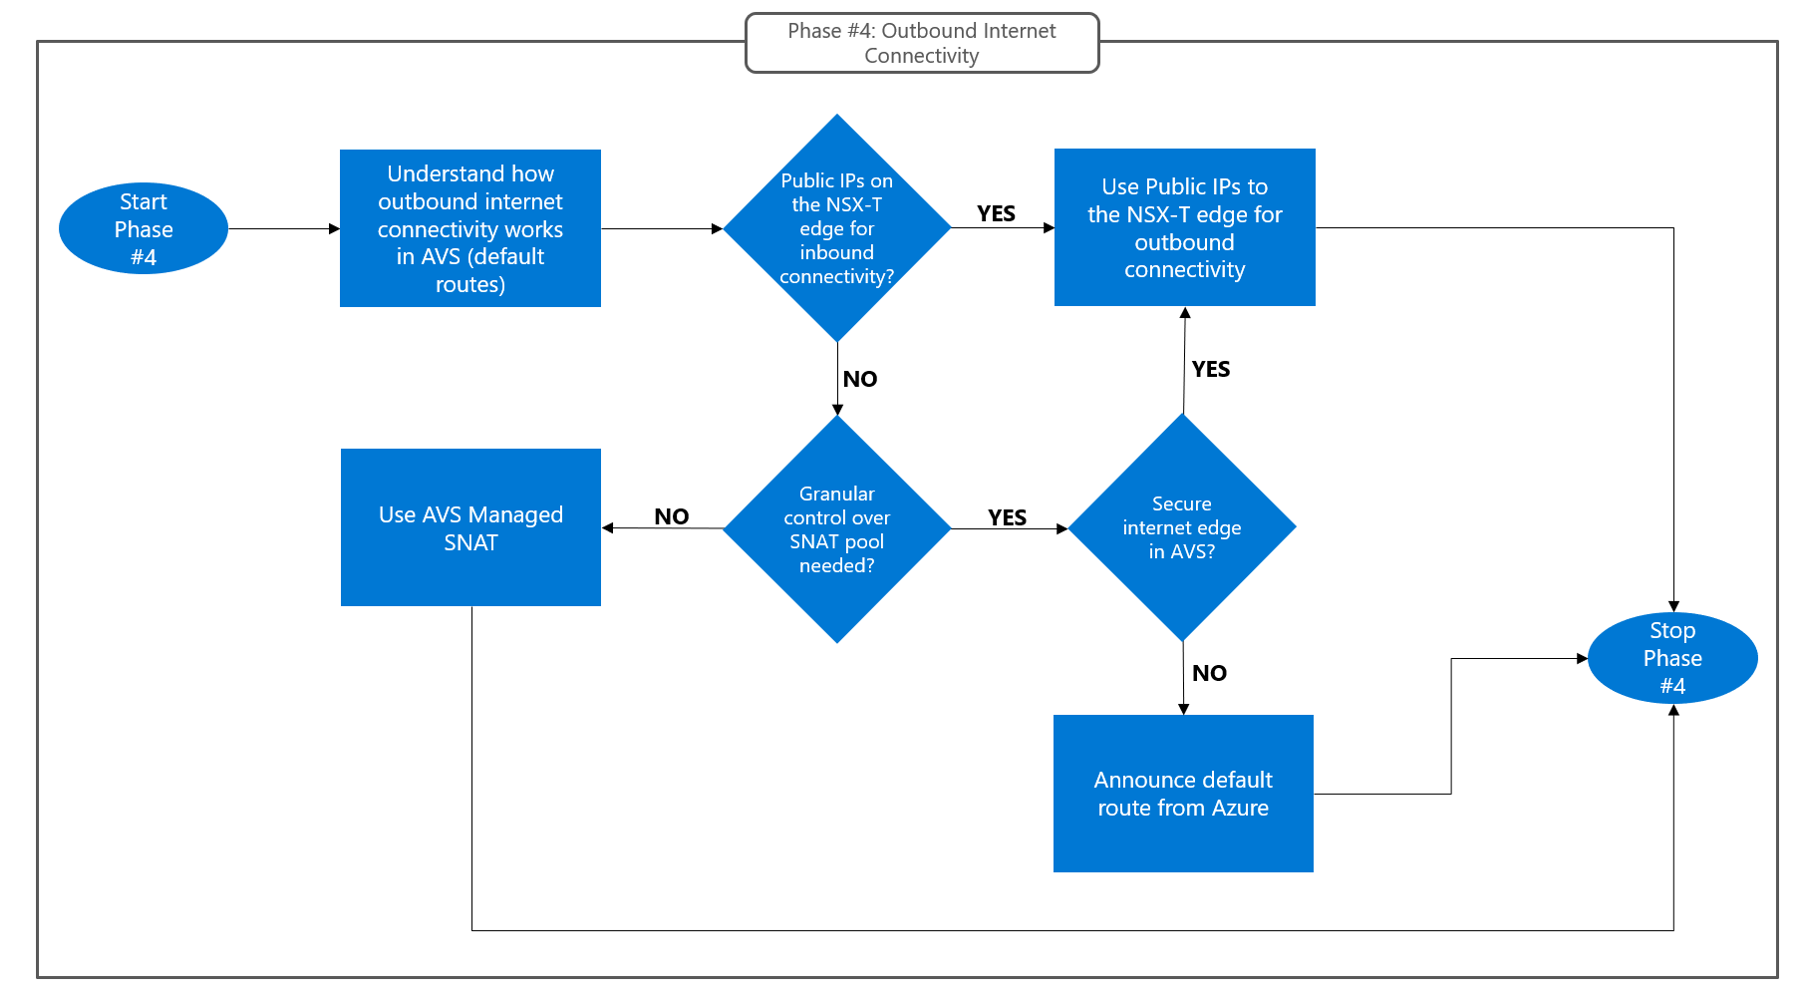
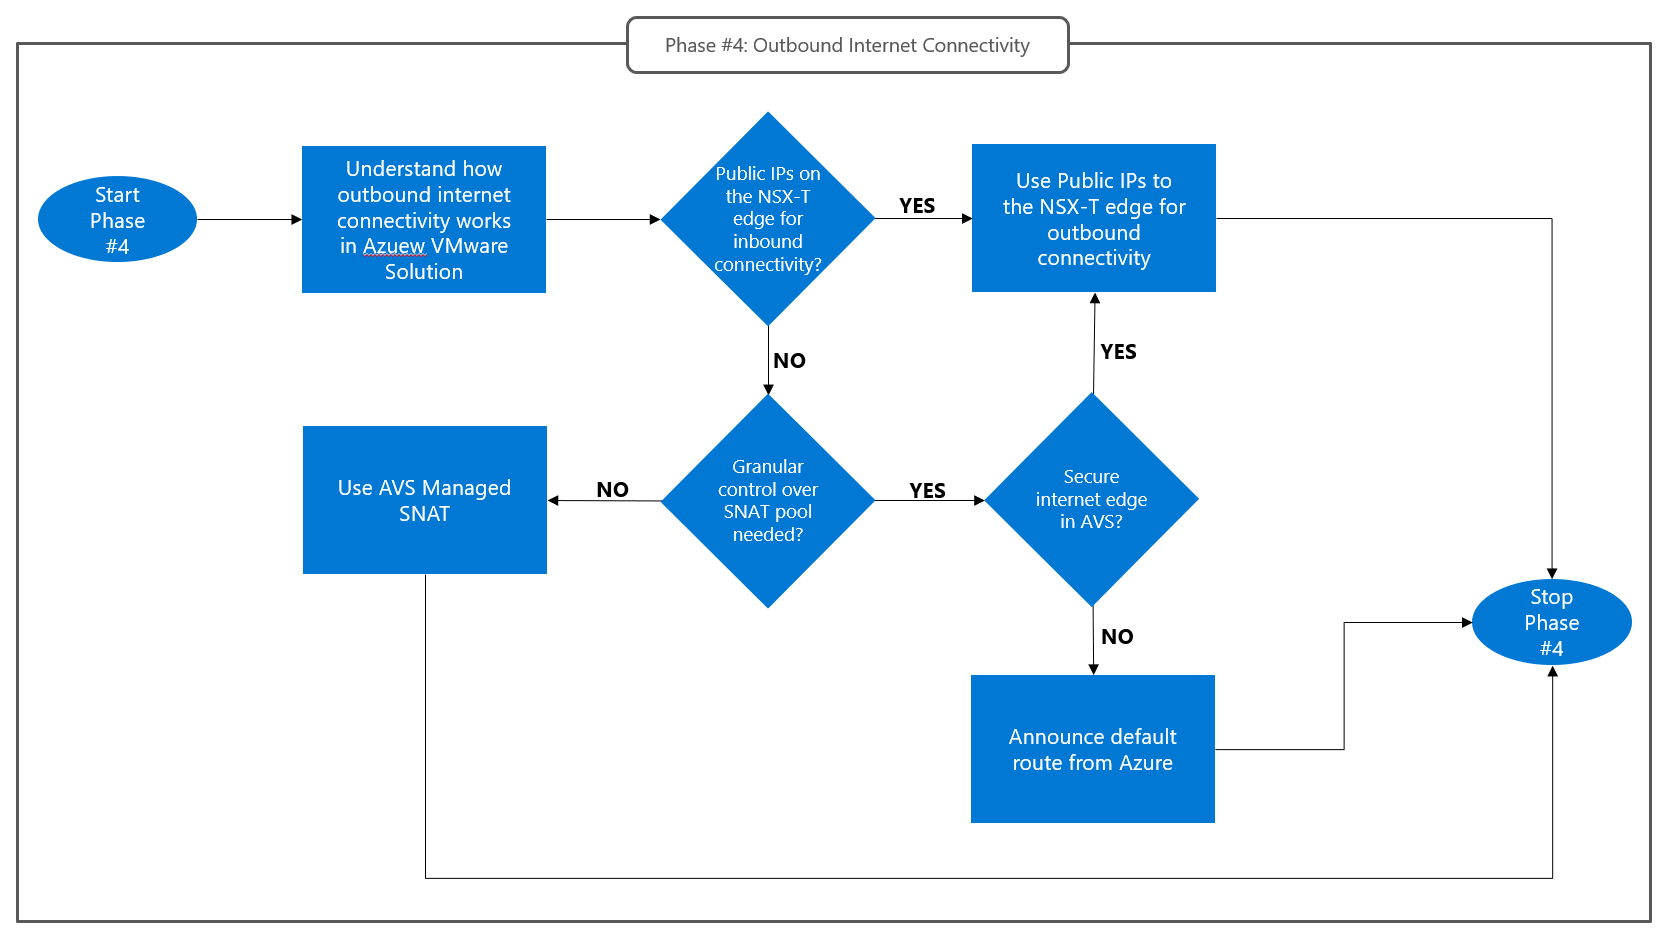
Review Phase #4

diff --git a/Network Design Guide/internet-outbound-connectivity.md b/Network Design Guide/internet-outbound-connectivity.md
@@ -1,39 +1,40 @@
 # Design phase #4: Internet outbound connectivity
-Outbound Internet connectivity must be designed based on requirements set forth by the applications running on Azure VMware Solution. Such requirements may range from very basic Internet access (for example to allow Azure VMware Solution virtual machines to download software updates) to complex outbound scenarios that require granular control on which address pool is used for Source NAT (for example in B2B collaboration scenarios where access to a third party API is allowed only for connections originating from specific, whitelisted IP addresses) or on the number of supported Source-NAT sessions (for example in VDI scenarios). 
-Almost invariably, outbound Internet access must be secured, by routing connections through a firewall or proxy devices. Azure VMware Solution supports deploying such devices on Azure VMware Solution itself, or in an Azure VNet connected to the private cloud. Choosing between these two options is the main goal of phase #4. The following considerations may help drive the decision:
-- Azure VMware Solution customers with a pre-existing Azure footprint may have deployed NVA’s for secure Internet access in Azure, which should be used for Azure VMware Solution applications too (both for cost optimization and for consistency).
+Design Phase #4 is driven by the outbound Internet connectivity requirements of the applications running on Azure VMware Solution. Such requirements may range from very basic Internet access (for example to allow virtual machines running in the private cloud to download software updates) to complex outbound scenarios that require granular control on the source-NAT address pool (for example in B2B collaboration scenarios where access to a third party API is allowed only from whitelisted IP addresses) or the number of supported source-NAT sessions (for example in VDI scenarios). 
+
+Almost invariably, outbound Internet access must be secured, by routing connections through a firewall or proxy device. Azure VMware Solution supports deploying such devices in the private cloud itself, or in an Azure VNet connected to the private cloud. Choosing between these two options is the main goal of Design Phase #4. The following considerations may help drive the decision:
+- Azure VMware Solution customers may want to leverage pre-existing secure internet access NVAs (firewalls, forward proxies) deployed in Azure VNets for cost optimization and consistency.
 - Azure VMware Solution customers may want to leverage PaaS solutions available on Azure, to reduce management overhead. Azure Firewall (especially when the Premium SKU features are enabled) can be used for secure Internet access. 
 - Azure VMware Solution customers that prefer to host the network infrastructure that supports their Azure VMware Solution applications entirely on Azure VMware Solution may want to deploy firewalls and/or proxy devices as Azure VMware Solution virtual machines, if supported by the NVA vendor.
-- Design phase #4 has a dependency on Phase #3. If “Public IPs to the NSX-T edge” have been selected as the inbound Internet connectivity option, then the same approach must be used for outbound connectivity: All outbound connections initiated by Azure VMware Solution virtual machines will be managed on the NSX-T edge and Source-NATted behind addresses in the Azure Public IP Prefix associated with the Azure VMware Solution private cloud’s NSX-T edge.
-The flow chart below describes how to approach design phase #4.
+
+Design phase #4 has a dependency on Phase #3. If [“Public IPs to the NSX-T edge”](internet-inbound-connectivity.md#nvas-for-application-publishing-hosted-in-azure-vmware-solution-public-ips-on-the-nsx-t-edge) has been selected as the inbound Internet connectivity option, then it must be used for outbound connectivity too: All outbound connections initiated by virtual machines running on Azure VMware Solution  will be managed on the NSX-T edge and Source-NATted behind addresses in the Azure Public IP Prefix associated with the private cloud’s NSX-T edge. The flow chart below describes how to approach Design Phase #4.
  
 ![figure17](media/figure17.png) 
 *Design Phase #4: Outbound Internet connectivity.*
 
 ## Default routes and outbound Internet connectivity in Azure VMware Solution
-Default routes configured on a private cloud’s network segments determine how outbound Internet connections initiated within the private cloud are routed. Different default routes are used in different network segments.
-The private cloud management network (which hosts vCenter Server and NSX-T Manager virtual machines) always uses a default route that provides direct Internet access through a platform-managed Internet breakout. This default route cannot be overridden. Source-NAT is managed by the platform. Users have no control over the public IP addresses in the Source-NAT pool. 
-Workload segments can:
-- Use a default route that provides Internet access through a platform-managed breakout. Source-NAT can be managed by the platform or by the user. In the former case, users have no control over the public IP addresses in the Source-NAT pool (see [this article](https://learn.microsoft.com/azure/azure-vmware/concepts-design-public-internet-access#azure-vmware-solution-managed-snat) for more information). In the latter case, users are responsible for provisioning Azure Public IP Prefixes for the Source-NAT pool and for defining NAT rules on the NSX-T edge (see [this article](https://learn.microsoft.com/en-us/azure/azure-vmware/concepts-design-public-internet-access#azure-public-ipv4-address-to-nsx-t-data-center-edge) for more information). 
-- Use a custom default route announced over the private cloud’s Expressroute circuit. The custom default route can be originated in an Azure VNet or in an on-premises site. Source-NAT is the user’s responsibility and must be performed by network devices in Azure VNets or on-premises (see [this article]( https://learn.microsoft.com/en-us/azure/azure-vmware/concepts-design-public-internet-access#internet-service-hosted-in-azure) for more information).
-All workload segments share the same default route configuration (platform-managed breakout with platform- or user-managed SNAT, or custom internet breakout in Azure VNets or on-premises sites). Outbound internet connectivity for workload segments can be configured through the Azure portal, as shown in the figure below.
- 
+Default routes determine how outbound Internet connections initiated by virtual machines running in the private cloud are routed. Different default routes are used in different network segments of an Azure VMware Solution private cloud: 
+- The private cloud's management network (which hosts vCenter Server and NSX-T Manager) always uses a default route that provides direct Internet access through a platform-managed Internet breakout. This default route cannot be overridden and users have no control over the source-NAT pool for connections initiated from the management network.
+- All workload segments share the same default route configuration, which can be one of the following:
+    - Default route that provides Internet access through a platform-managed breakout. Source-NAT can be managed by the platform or by the user. In the former case, users have no control over the public IP addresses in the source-NAT pool (see [this article](https://learn.microsoft.com/azure/azure-vmware/concepts-design-public-internet-access#azure-vmware-solution-managed-snat) for more information). In the latter case, users are responsible for provisioning Azure Public IP Prefixes for the source-NAT pool and for defining NAT rules on the NSX-T edge (see [this article](https://learn.microsoft.com/en-us/azure/azure-vmware/concepts-design-public-internet-access#azure-public-ipv4-address-to-nsx-t-data-center-edge) for more information). 
+    - Default route announced over the private cloud’s ExpressRoute circuit. This default route can be originated by a BGP-capable device in an Azure VNet or in an on-premises site. Source-NAT is the user’s responsibility and must be performed by network devices in Azure VNets or on-premises (see [this article]( https://learn.microsoft.com/en-us/azure/azure-vmware/concepts-design-public-internet-access#internet-service-hosted-in-azure) for more information).
+
+Outbound internet connectivity for workload segments can be configured through the Azure portal, as shown in the figure below. 
+
 ![figure18](media/figure18.png) 
-*Outbound Internet connectivity options for workload segments. Option #1 disables the platform-managed Internet breakout. Use this option when a custom default route is announced over the Azure VMware Solution Expressroute circuit from Azure or on-premises sites. Option #2 provides a platform-managed Internet breakout with a managed NAT pool. Option #3 provides a platform-managed internet breakout with user-managed NAT pool.*
+*Outbound Internet connectivity options for workload segments. Option #1 disables the platform-managed Internet breakout. Use this option when a custom default route is announced over the Azure VMware Solution ExpressRoute circuit from Azure or on-premises sites. Option #2 provides a platform-managed Internet breakout with a managed NAT pool. Option #3 provides a platform-managed internet breakout with user-managed NAT pool.*
 
-### Use Azure VMware Solution managed SNAT
-Managed SNAT is the lowest complexity option for outbound Internet access in Azure VMware Solution. When enabled on a private cloud, a default route in installed on T0/T1 gateways that forwards Internet-bound traffic to a platform-managed edge. The platform managed edge perform Source-NAT. Users have no control on the SNAT pool. Managed SNAT can be used to provide direct Internet access to Azure VMware Solution virtual machines. It is however possible to define NSX-T topologies whereby Internet-bound connections initiated by Azure VMware Solution virtual machines are routed to secure Internet edge devices (firewall, forward proxies) deployed as virtual applicances in Azure VMware Solution. Typical reasons for discarding Azure VMware Solution managed SNAT for outbound connectivity are listed below:
+### Use Azure VMware Solution managed source-NAT
+Managed source-NAT is the lowest complexity option for outbound Internet access in Azure VMware Solution. When enabled on a private cloud, a default route in installed on T0/T1 gateways that forwards Internet-bound traffic to a platform-managed edge. The platform managed edge performs source-NAT. Users have no control on the NAT pool. Managed source-NAT can be used to provide direct Internet access to Azure VMware Solution virtual machines. It is however possible to define NSX-T topologies whereby Internet-bound connections initiated by virtual machines are routed to secure Internet edge devices (firewall, forward proxies) deployed as virtual appliances running in the private cloud itself. Typical reasons for discarding Azure VMware Solution managed source-NAT for outbound connectivity are listed below:
 
-- Granular control over the SNAT pool is a requirement. For example, specific Azure Public IPs must be used to SNAT connections initiated by specific virtual machines towards specific public endpoints, to meet  whitelisting requirements. In this case, Public IPs on the NSX-T edge, [covered in the next section](internet-outbound-connectivity.md#deploy-pips-at-the-nsx-t-edge) should be considered.
-- Public IPs on the NSX-T edge have been selected for Internet inbound connectivity in [Design Phase #3](internet-inbound-connectivity.md). In this case, Public IPs on the NSX-T must also be used for outbound Internet connectivity. See next section.
-- Outbound Internet connections should be routed via a secure Internet edge running in an Azure VNet (or in an onprem site). In this case, a default route must be originated from the Internet edge running in Azure and advertised to the Azure VMware Solution private cloud, which is covered in section [Originate default route from Azure](#originate-default-route-from-azure-customer-managed-vnet-or-vwan).
+- Granular control over the NAT pool is a requirement. For example, specific Azure Public IPs must be used to source-NAT connections initiated by specific virtual machines towards specific public endpoints, to meet  whitelisting requirements. In this case, Public IPs on the NSX-T edge, [covered in the next section](internet-outbound-connectivity.md#deploy-pips-at-the-nsx-t-edge) should be considered.
+- Public IPs on the NSX-T edge have been selected for Internet inbound connectivity in [Design Phase #3](internet-inbound-connectivity.md). In this case, Public IPs on the NSX-T must also be used for outbound Internet connectivity. See [next section](internet-outbound-connectivity.md#deploy-pips-at-the-nsx-t-edge).
+- Outbound Internet connections should be routed via a secure Internet edge running in an Azure VNet (or in an on-premises site). In this case, a default route must be originated from the Internet edge running in Azure and advertised to the private cloud (covered in section [Originate default route from Azure](#originate-default-route-from-azure-customer-managed-vnet-or-vwan)).
 
 ### Deploy PIPs at the NSX-T edge
-When Public IPs to the NSX-T edge are configured, a default route that forwards traffic from T1/T0 gateways towards the Azure network's Internet edge exists in the private cloud. Outbound Internet connections must be Source-NATted on T1 gateways behind one of the Public IPs associated to the private cloud. Detailed instructions on how to configure NAT rules on T1 gateways are provided in the [official documentation](https://learn.microsoft.com/azure/azure-vmware/enable-public-ip-nsx-edge#outbound-internet-access-for-vms).This option can be used to provide direct Internet access to Azure VMware Solution virtual machines. It is however possible to define NSX-T topologies whereby Internet-bound connections initiated by Azure VMware Solution virtual machines are routed to secure Internet edge devices (firewall, forward proxies) deployed as virtual applicances in Azure VMware Solution. 
+When Public IPs to the NSX-T edge are configured, a default route that forwards traffic from T1/T0 gateways towards the Azure network's Internet edge exists in the private cloud. Outbound Internet connections must be source-NATted on T1 gateways using  one of the Public IPs associated to the private cloud. Detailed instructions on how to configure NAT rules on T1 gateways are provided in the [official documentation](https://learn.microsoft.com/azure/azure-vmware/enable-public-ip-nsx-edge#outbound-internet-access-for-vms).This option can be used to provide direct Internet access to Azure VMware Solution virtual machines. It is however possible to define NSX-T topologies whereby Internet-bound connections initiated by Azure VMware Solution virtual machines are routed to secure Internet edge devices (firewall, forward proxies) deployed as virtual appliances in the private cloud. 
 
-### Originate default route from Azure (customer-managed VNet or VWAN)
-Internet-bound traffic emitted by Azure VMware Solution VMs can be routed to an Azure-native NVA by announcing a default route (0.0.0.0/0) over the Azure VMware Solution managed Expressroute circuit that connects the private cloud to the NVA's VNet. The Azure VMware Solution private cloud's T0 gateways will honor the default route received from Azure and will send Internet-bound traffic to the default route's next hop. If the Internet edge NVAs in Azure support BGP, then they can be used as BGP speakers to originate the default route. 
-If the NVAs do not support BGP (or cannot be used as BGP speakers due to security-related constraints), additional NVAs can be deployed to act as BGP speakers. A typical scenario that requires additional BGP-capable NVAs is when the Azure Internet edge is Azure Firewall (Azure Firewall does not support BGP).
+### Originate default route from Azure (customer-managed VNet or Virtual WAN)
+Internet-bound traffic emitted by Azure VMware Solution virtual machines can be routed to an Azure-native NVA by announcing a default route over the private cloud's managed ExpressRoute circuit. The private cloud's T0 gateways will honor the default route received from Azure and will send Internet-bound traffic to the next hop specified by the received default route. If the Internet edge NVAs in Azure support BGP, then they can be used as BGP speakers to originate the default route. If the NVAs do not support BGP (or cannot be used as BGP speakers due to security-related constraints), additional NVAs can be deployed to act as BGP speakers. A typical scenario that requires additional BGP-capable NVAs is when the Azure Internet edge is Azure Firewall (Azure Firewall does not support BGP). The resulting network topology is shown in the figure below.
 
 ![figure19](media/figure19.png)  
 *Default route origination from Azure Virtual Networks.*

diff --git a/Network Design Guide/internet-inbound-connectivity.md b/Network Design Guide/internet-inbound-connectivity.md
@@ -1,6 +1,5 @@
 # Design phase #3: Internet inbound connectivity
 Design Phase #3 is driven by the requirements of the applications running on Azure VMware Solution that must be reachable over public IP addresses. Almost invariably, Internet-facing applications are published through network devices that provide security (next generation firewalls, web application firewalls) and load balancing (layer-3/layer-4 load balancers, application delivery controllers, …) functions. Such devices can be deployed on the private cloud itself, or in an Azure VNet connected to the private cloud. Choosing between these two options is the main goal of Design Phase #3. The following considerations may help drive the decision:
-
 -  Azure VMware Solution customers may want to leverage pre-existing NVAs deployed in Azure VNets (firewalls, application delivery controllers, ...) to publish applications running on their private cloud(s), for cost optimization and for consistency.
 - Azure VMware Solution customers may want to leverage PaaS solutions available on Azure, to reduce management overhead. Azure services that can be used for publishing Internet-facing applications include [Azure Firewall](https://learn.microsoft.com/azure/firewall/tutorial-firewall-dnat) (both when deployed in a customer managed VNet and when deployed in a Virtual WAN Hub) and [Azure Application Gateway](https://learn.microsoft.com/azure/application-gateway/overview).
 - Azure VMware Solution customers that prefer to host the network infrastructure for Internet publishing in their private cloud(s) may want to deploy firewalls and/or application delivery controllers as Azure VMware Solution virtual machines, if supported by the NVA vendor.
@@ -31,7 +30,7 @@ Third-party NVAs can provide layer-3/layer-4 firewall capabilities or layer-7 re
 - Layer-3/layer-4 NVAs must be configured to source-NAT inbound Internet connections behind their egress interface's private IP address, to preserve flow symmetry.  
 - Layer-7 NVAs act as reverse-proxies and maintain two distinct TCP sessions for each inbound client connection: One between the client and the NVA and one between the NVA and the upstream application server. The latter session originates from the NVA egress interface's private IP address. HTTP(S) applications allow layer-7 NVAs to pass the client's public IP address to the application servers in HTTP request headers.
 
-## NVA’s for application publishing hosted in Azure VMware Solution (Public IPs on the NSX-T edge)
+## NVAs for application publishing hosted in Azure VMware Solution (Public IPs on the NSX-T edge)
 Publishing Azure VMware Solution applications via third-party NVAs deployed on Azure VMware Solution requires enabling [Public IPs on the NSX-T edge](https://learn.microsoft.com/azure/azure-vmware/enable-public-ip-nsx-edge) for the private cloud. The functionality associates Azure Public IPs from an [Azure Public IP Prefix](https://learn.microsoft.com/azure/virtual-network/ip-services/public-ip-address-prefix) to the private cloud and configures the Microsoft backbone to route Internet traffic destined those IPs to the private cloud's NSX-T T0/T1 gateways. T1 gateways can then be configured to destination-NAT inbound connections to the private IPs of NVAs attached to NSX-T segments. Detailed guidance for configuring Public IPs to the NSX-T edge and destination-NAT rules for inbound Internet connectivity is [available in the public doc](https://learn.microsoft.com/azure/azure-vmware/enable-public-ip-nsx-edge#inbound-internet-access-for-vms). When using Azure VMware Solution with Public IPs to the NSX-T edge, the following considerations apply:
 - NAT should be done on T1 gateways, not on T0 gateways. In Azure VMware Solution private clouds, T0 gateways are active/active device pairs and, as such, cannot handle stateful NAT sessions. 
 - Public IPs must be associated to an Azure Public IP Prefix. It is currently unsupported to use IPs from [Custom IP Prefixes (BYOIP)](https://learn.microsoft.com/azure/virtual-network/ip-services/custom-ip-address-prefix).
